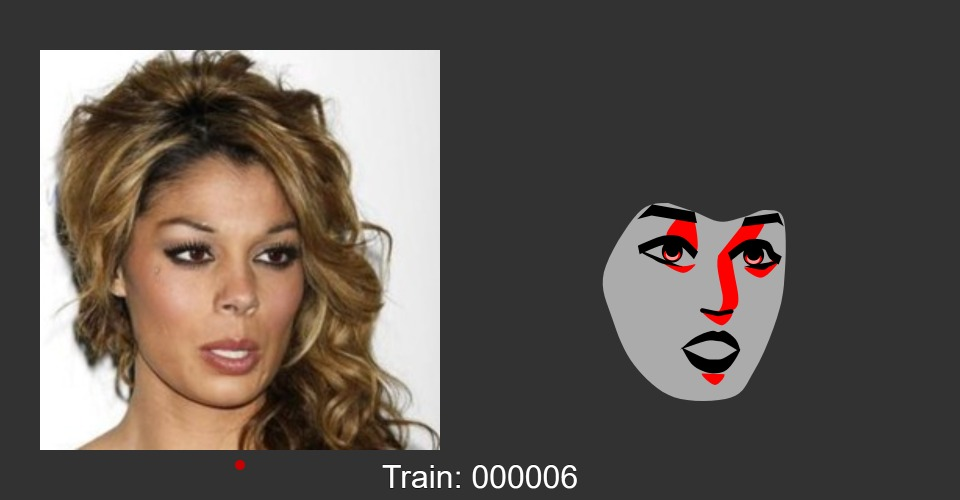
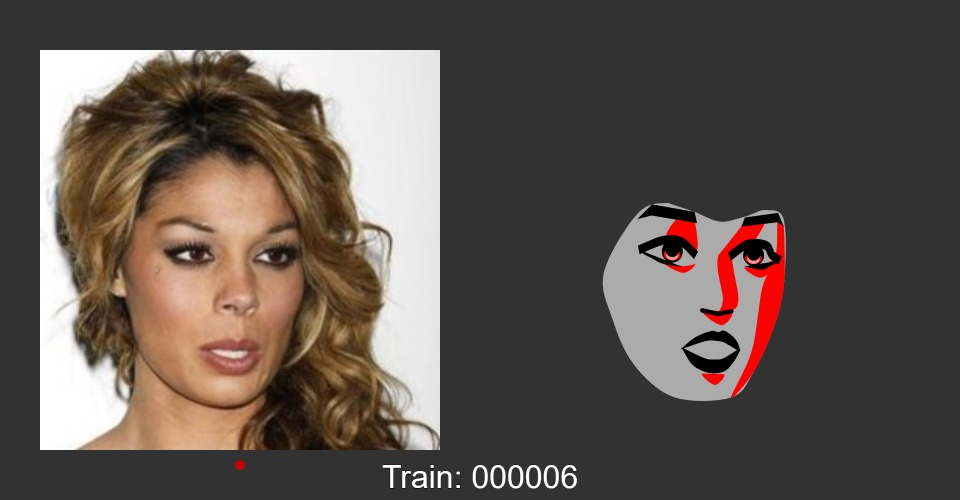
Finished blocking out shaded areas on face base

Changed region(s): [[0.75, 0.45, 0.8438, 0.81]]

diff --git a/face.js b/face.js
@@ -168,9 +168,6 @@ function Face() {
         curveVertex(left_eye[2][0], left_eye[2][1] - 0.05);
       endShape();
     pop();
-
-
-
     
     // chin
     push();
@@ -187,7 +184,24 @@ function Face() {
       endShape();
     pop();
 
+    // face side
+    push();
+      beginShape();
+        curveVertex(right_eyebrow[3][0], right_eyebrow[3][1] + brow_h/2);
+        curveVertex(right_eyebrow[4][0], right_eyebrow[4][1] + brow_h/2);
+        curveVertex(chin[15][0], chin[15][1]);
+        curveVertex(chin[13][0], chin[13][1]);
+        curveVertex(chin[11][0], chin[11][1]);
+        curveVertex(chin[9][0], chin[9][1]);
+        curveVertex(top_lip[6][0] + (chin[12][0] - top_lip[6][0])/2 , top_lip[6][1]);
+        curveVertex(nose_bridge[1][0] + (chin[15][0] - nose_bridge[1][0])/1.5, nose_bridge[2][1]);
+        curveVertex(right_eye[3][0] + (chin[15][0] - right_eye[3][0])/2, right_eye[3][1]);
 
+
+        curveVertex(right_eyebrow[3][0], right_eyebrow[3][1] + brow_h/2);
+        curveVertex(right_eyebrow[4][0], right_eyebrow[4][1] + brow_h/2);
+      endShape();
+    pop();
 
     ///////////////////////////////////////////////////////////////////////////////////////////
 
@@ -421,22 +435,22 @@ function Face() {
     strokeWeight(0.08);
     if(abs(nose_tip[2][0] - nose_bridge[3][0]) > 0.08){
       if(nose_tip[2][0] - nose_bridge[3][0] > 0){
-        //line(nose_bridge[0][0],nose_bridge[0][1], nose_tip[0][0], nose_tip[0][1]);
-        beginShape();
-          curveVertex(left_eyebrow[4][0],left_eyebrow[4][1] + brow_h/2);
-          curveVertex(left_eyebrow[4][0],left_eyebrow[4][1] + brow_h/2);
-          curveVertex(left_eyebrow[4][0] +(nose_bridge[0][0] - left_eyebrow[4][0])/1.1, nose_bridge[0][1]);
-          // curveVertex(nose_bridge[0][0], nose_bridge[0][1]);
-          //curveVertex(nose_bridge[1][0], nose_bridge[1][1]);
-          curveVertex(nose_bridge[2][0], nose_bridge[2][1]);
-          //curveVertex(nose_bridge[3][0], nose_bridge[3][1]);
-          //curveVertex(nose_bridge[3][0], nose_bridge[3][1]);
-           curveVertex(nose_tip[0][0], nose_tip[0][1]);
-          // curveVertex(nose_tip[1][0], nose_tip[1][1]);
-          // curveVertex(nose_tip[2][0], nose_tip[2][1]);
-          // curveVertex(nose_tip[2][0], nose_tip[2][1]);
+        // //line(nose_bridge[0][0],nose_bridge[0][1], nose_tip[0][0], nose_tip[0][1]);
+        // beginShape();
+        //   curveVertex(left_eyebrow[4][0],left_eyebrow[4][1] + brow_h/2);
+        //   curveVertex(left_eyebrow[4][0],left_eyebrow[4][1] + brow_h/2);
+        //   curveVertex(left_eyebrow[4][0] +(nose_bridge[0][0] - left_eyebrow[4][0])/1.1, nose_bridge[0][1]);
+        //   // curveVertex(nose_bridge[0][0], nose_bridge[0][1]);
+        //   //curveVertex(nose_bridge[1][0], nose_bridge[1][1]);
+        //   curveVertex(nose_bridge[2][0], nose_bridge[2][1]);
+        //   //curveVertex(nose_bridge[3][0], nose_bridge[3][1]);
+        //   //curveVertex(nose_bridge[3][0], nose_bridge[3][1]);
+        //    curveVertex(nose_tip[0][0], nose_tip[0][1]);
+        //   // curveVertex(nose_tip[1][0], nose_tip[1][1]);
+        //   // curveVertex(nose_tip[2][0], nose_tip[2][1]);
+        //   // curveVertex(nose_tip[2][0], nose_tip[2][1]);
           
-        endShape();
+        // endShape();
         if(direction > 0.5){
           line(nose_tip[2][0],nose_tip[2][1],nose_bridge[3][0],nose_bridge[3][1]);
         }

diff --git a/README.md b/README.md
@@ -2,5 +2,5 @@
 
 My inital idea for my face is a stylised face with watercolour-esque shading on one side.
 
-Created the face base and most of the watercolour shading areas in red.
+Created the face base and all of the watercolour shading areas in red.
 Two of the sliders are currently in control of the thickness of the top eyelid and the colour of the eyes.
